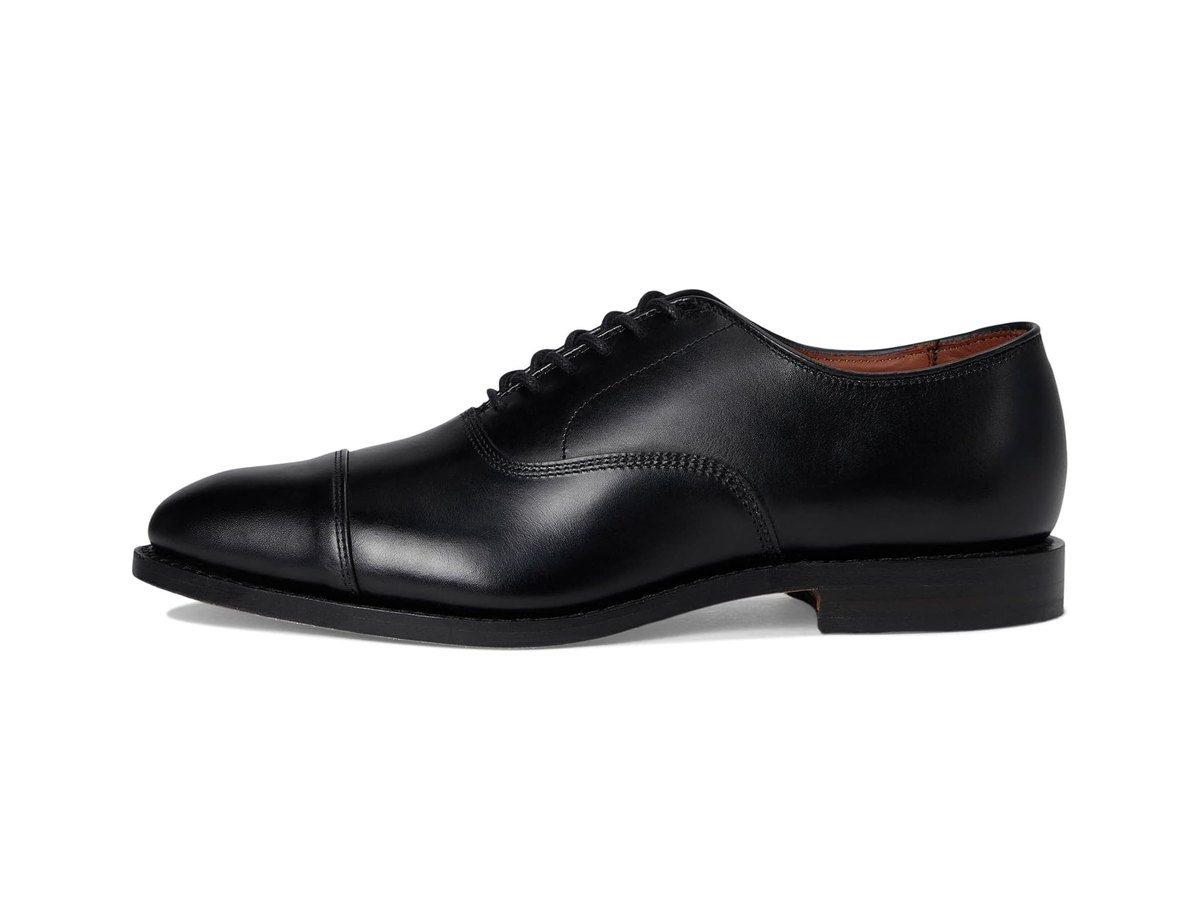
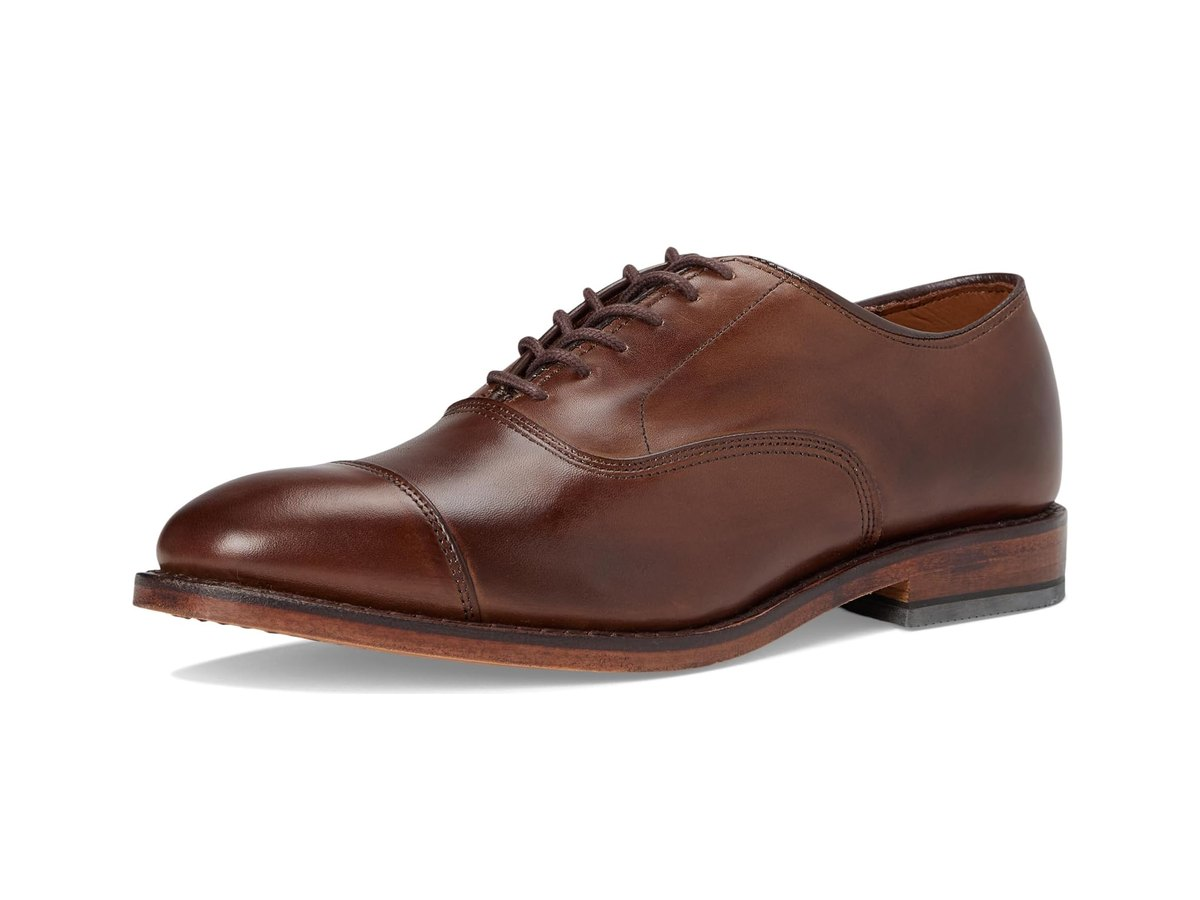
Slot 2: white/black Adizero Dropset Pro (KK1551); slot 4: dark brown Park Avenue, Cole Haan and Wolf & Shepherd options

Changed region(s): [[0.0925, 0.28, 0.8942, 0.7778]]

diff --git a/slots/work-dress-shoe.html b/slots/work-dress-shoe.html
@@ -29,19 +29,19 @@
 <div class="wrap">
   <p class="crumb"><a href="../index.html#rotation">&larr; Back to the rotation</a></p>
   <section class="slot-hero">
-    <figure class="slot-photo"><div class="tile-img"><img src="../assets/slots/slot-4.jpg" alt="Allen Edmonds Park Avenue black cap-toe oxford" width="1200" height="900"></div><figcaption class="img-credit">Image: Zappos (Allen Edmonds)</figcaption></figure>
+    <figure class="slot-photo"><div class="tile-img"><img src="../assets/slots/slot-4.jpg" alt="Allen Edmonds Park Avenue cap-toe oxford in dark brown" width="1200" height="900"></div><figcaption class="img-credit">Image: Zappos (Allen Edmonds)</figcaption></figure>
     <div class="rules">
       <p class="eyebrow">Slot 4 of 6</p>
       <h1>The Work Dress Shoe</h1>
       <hr class="rule">
-      <p>You need a quality leather lace-up oxford that lasts at least five years, depending on how often you wear it to work.</p>
+      <p>You need a quality leather lace-up oxford that lasts at least five years, depending on how often you wear it to work. Make it dark brown.</p>
       <p>If you already own sneaker-soled brown leather oxfords, they're fine for now, but don't buy them new.</p>
       <p>For comfort, get a sneaker-like insole but not a sneaker-like midsole. You can add an aftermarket insole like Move, or buy from Cole Haan or Wolf &amp; Shepherd, but never a sneaker-type midsole.</p>
       <div class="pick">
         <p class="eyebrow">My current pick</p>
         <h3>Allen Edmonds oxfords</h3>
-        <p>Quality leather lace-ups. Pictured: the Allen Edmonds Park Avenue cap-toe oxford.</p>
-        <p class="shop"><a class="btn btn-shop" href="https://www.allenedmonds.com/product/mens-park-avenue-cap-toe-oxford-dress-shoe-3023014/black-leather-ec4001390" target="_blank" rel="noopener">Shop this shoe at Allen Edmonds &rarr;</a></p>
+        <p>Quality leather lace-ups. Pictured: the Allen Edmonds Park Avenue cap-toe oxford in Coffee, a dark brown.</p>
+        <p class="shop"><a class="btn btn-shop" href="https://www.allenedmonds.com/product/mens-park-avenue-cap-toe-oxford-dress-shoe-3023014/coffee-brown-leather-ec4013255" target="_blank" rel="noopener">Shop this shoe at Allen Edmonds &rarr;</a></p>
       </div>
     </div>
   </section>
@@ -51,8 +51,8 @@
       <h2>Other options for this slot</h2>
       <p class="note">The alternatives I'd point you to.</p>
       <ul class="list">
-          <li><strong>Cole Haan</strong><span>A brand to look at for comfort, as long as you skip the sneaker-type midsole.</span></li>
-          <li><strong>Wolf &amp; Shepherd</strong><span>Another comfort-minded dress shoe brand.</span></li>
+          <li><strong>Cole Haan</strong><span>A brand to look at for comfort, as long as you skip the sneaker-type midsole. One that fits the rules: the <a href="https://www.colehaan.com/products/mens-broome-grand-lug-sole-plain-toe-oxfords-c45673" target="_blank" rel="noopener">Broome Grand Lug Sole Plain Toe Oxford in Woodbury/Java</a>, dark brown leather on a dark brown sole.</span></li>
+          <li><strong>Wolf &amp; Shepherd</strong><span>Another comfort-minded dress shoe brand. Their lace-up oxford is the <a href="https://wolfandshepherd.com/products/closer-oxford" target="_blank" rel="noopener">Closer Oxford in Brown/Brown</a>, brown leather on a dark brown sole.</span></li>
           <li><strong>Move aftermarket insole</strong><span>Add sneaker-like comfort to a real dress shoe.</span></li>
           <li><strong>Your existing sneaker-soled brown oxfords</strong><span>Fine for now if you already own them. Just don't buy them new.</span></li>
       </ul>

diff --git a/slots/workout-shoe.html b/slots/workout-shoe.html
@@ -29,7 +29,7 @@
 <div class="wrap">
   <p class="crumb"><a href="../index.html#rotation">&larr; Back to the rotation</a></p>
   <section class="slot-hero">
-    <figure class="slot-photo"><div class="tile-img"><img src="../assets/slots/slot-2.jpg" alt="adidas Adizero Dropset Pro training shoe in black" width="1200" height="900"></div><figcaption class="img-credit">Image: adidas</figcaption></figure>
+    <figure class="slot-photo"><div class="tile-img"><img src="../assets/slots/slot-2.jpg" alt="adidas Adizero Dropset Pro training shoe in white with black stripes" width="1200" height="900"></div><figcaption class="img-credit">Image: adidas</figcaption></figure>
     <div class="rules">
       <p class="eyebrow">Slot 2 of 6</p>
       <h1>The Workout Shoe</h1>
@@ -40,8 +40,8 @@
       <div class="pick">
         <p class="eyebrow">My current pick</p>
         <h3>adidas Adizero Dropset Pro</h3>
-        <p>For treadmill walking, weights, and plyometrics.</p>
-        <p class="shop"><a class="btn btn-shop" href="https://www.adidas.com/us/adizero-dropset-pro-training-shoes/KH6710.html" target="_blank" rel="noopener">Shop this shoe at adidas &rarr;</a></p>
+        <p>For treadmill walking, weights, and plyometrics. Pictured: Cloud White / Core Black.</p>
+        <p class="shop"><a class="btn btn-shop" href="https://www.adidas.com/us/adizero-dropset-pro-training-shoes/KK1551.html" target="_blank" rel="noopener">Shop this shoe at adidas &rarr;</a></p>
       </div>
     </div>
   </section>

diff --git a/index.html b/index.html
@@ -56,7 +56,7 @@
         </div>
       </a>
       <a class="tile" href="slots/workout-shoe.html">
-        <div class="tile-img"><img src="assets/slots/slot-2.jpg" alt="adidas Adizero Dropset Pro training shoe in black" width="1200" height="900" loading="lazy"></div>
+        <div class="tile-img"><img src="assets/slots/slot-2.jpg" alt="adidas Adizero Dropset Pro training shoe in white with black stripes" width="1200" height="900" loading="lazy"></div>
         <div class="tile-body">
           <span class="tile-num">Slot 2</span>
           <h3 class="tile-name">The Workout Shoe</h3>
@@ -74,7 +74,7 @@
         </div>
       </a>
       <a class="tile" href="slots/work-dress-shoe.html">
-        <div class="tile-img"><img src="assets/slots/slot-4.jpg" alt="Allen Edmonds Park Avenue black cap-toe oxford" width="1200" height="900" loading="lazy"></div>
+        <div class="tile-img"><img src="assets/slots/slot-4.jpg" alt="Allen Edmonds Park Avenue cap-toe oxford in dark brown" width="1200" height="900" loading="lazy"></div>
         <div class="tile-body">
           <span class="tile-num">Slot 4</span>
           <h3 class="tile-name">The Work Dress Shoe</h3>
